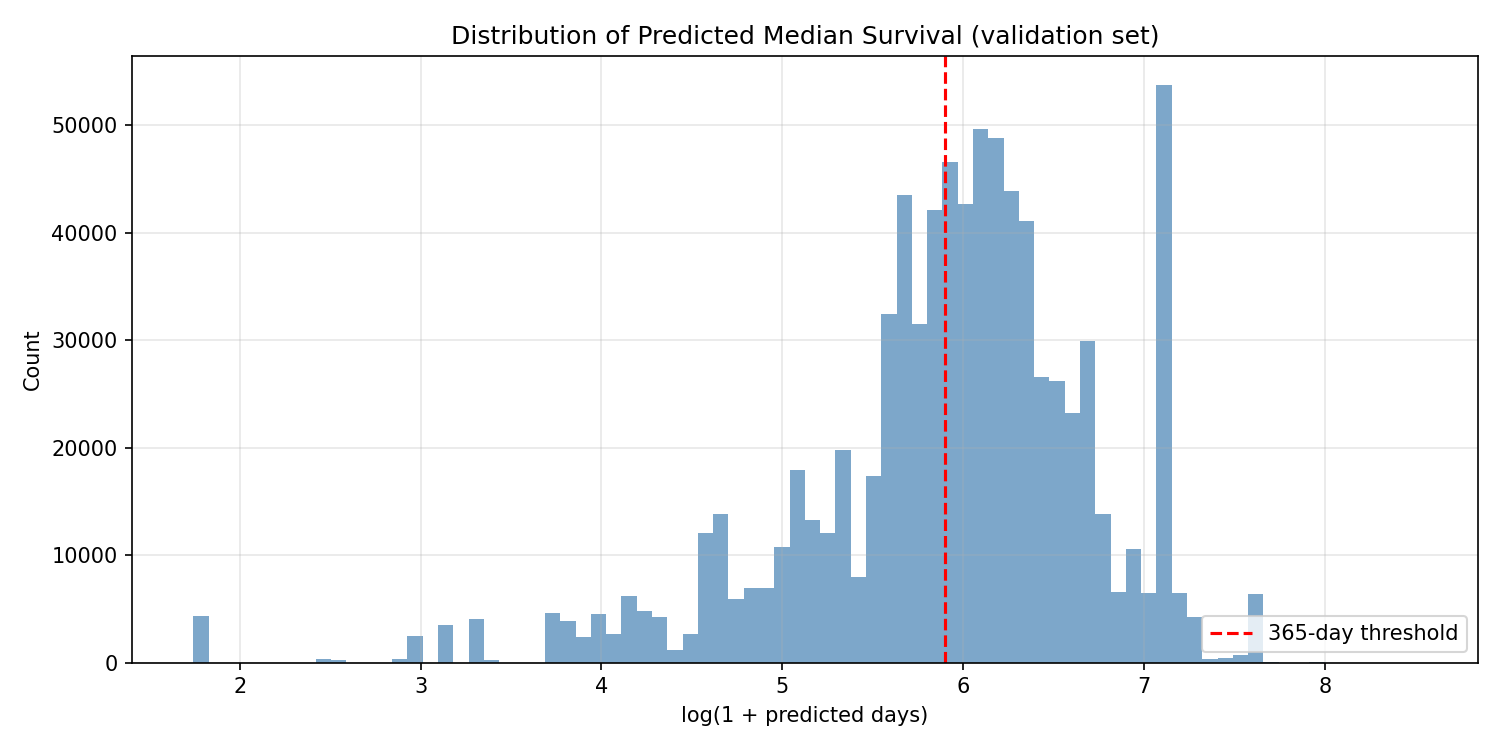
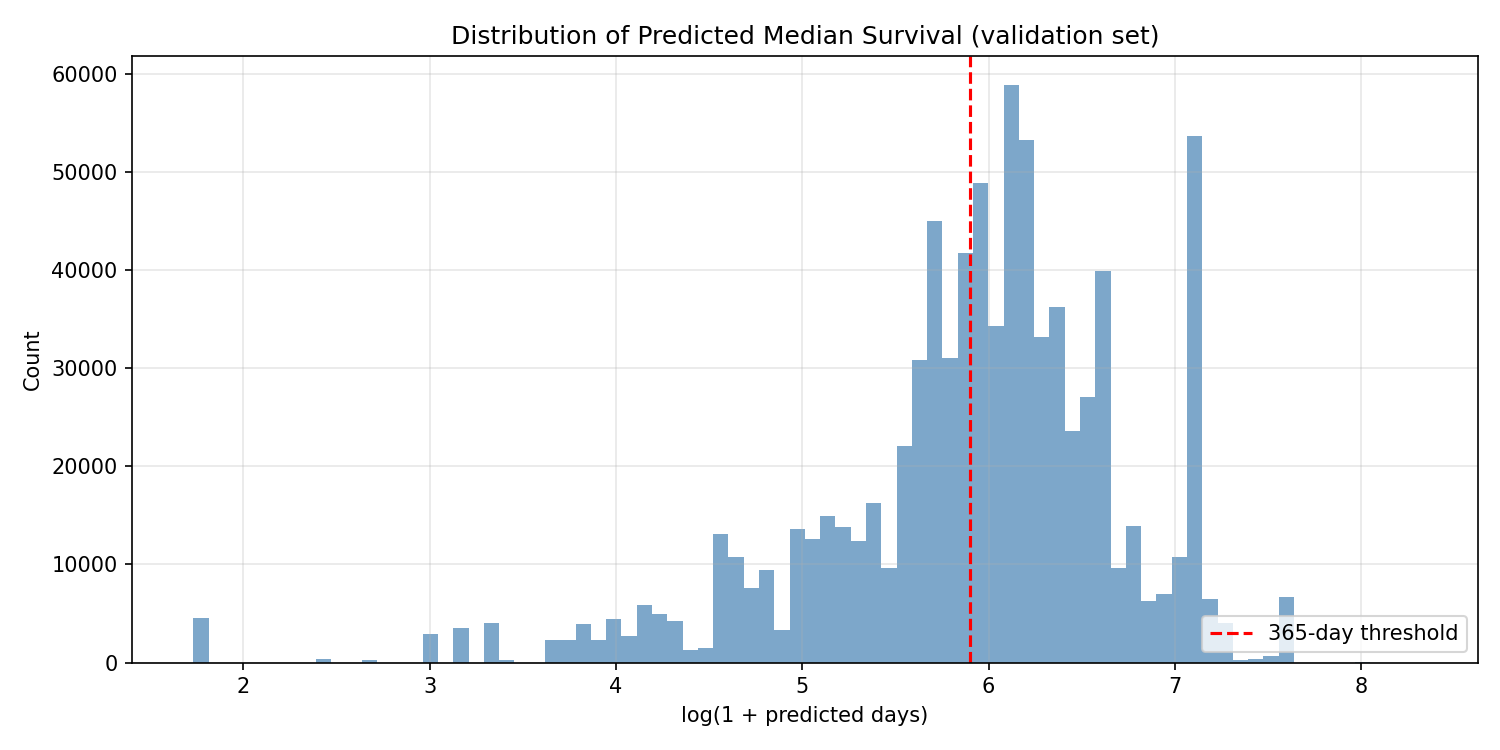
small update

diff --git a/processing/process_bulk.py b/processing/process_bulk.py
@@ -1,21 +1,40 @@
-"""This script processes raw dockets into a clean silver Parquet layer,
-generating native list arrays tracking every year and quarter a case was active
-between 2023 and 2026, completely filtering out any rows with chronological anomalies.
+"""This script processes raw dockets into a clean silver Parquet layer.
+
+If LIMITED_HARDWARE is True, it generates activity arrays clamped to the
[phone redacted] window and filters out cases that closed before 2023.
+
+If LIMITED_HARDWARE is False, it runs without any time-window constraints:
+all records passing basic integrity checks are included, and activity arrays
+span the full lifespan of each case.
 """
 
 from pathlib import Path
 import duckdb
+from datetime import datetime
 
-base_path = Path(__file__).parent 
-file_path = base_path / ".." / "data" / "dockets_observatory_2020_onwards.jsonl"
-output_parquet = base_path / ".." / "silver" / "database_dockets_latest.parquet"
+base_path = Path(__file__).parent.parent
+file_path = base_path /  "data" / "dockets_observatory_2020_onwards.jsonl"
+output_parquet = base_path / "silver" / "database_dockets.parquet"
 
 # Ensure output directory exists
 output_parquet.parent.mkdir(parents=True, exist_ok=True)
 
-print("Connecting to DuckDB and processing raw dataset...")
+print(f"Connecting to DuckDB and processing raw dataset ...")
 con = duckdb.connect()
 
+# ─── WINDOW PARAMETERS ───────────────────────────────────────────────────────
+WINDOW_END_DATE   = "2026-03-31" # ignore misfiled cases (there were some)
+# No window constraints — use the actual case dates in full
+current_year = datetime.now().year
+
+extra_where = ""  # No additional filtering beyond integrity checks
+
+start_yr_expr    = "date_part('year', d_filed)"
+end_yr_expr      = f"COALESCE(date_part('year', d_term), {current_year})"
+start_q_expr     = "d_filed"
+end_q_expr       = f"LEAST(CAST('{WINDOW_END_DATE}' AS DATE), COALESCE(d_term, CAST('{WINDOW_END_DATE}' AS DATE)))"
+
+# ─── MAIN QUERY ──────────────────────────────────────────────────────────────
 query = f"""
 COPY (
     WITH raw_data AS (
@@ -43,7 +62,12 @@ COPY (
             CASE 
                 WHEN jury_demand IN ('Plaintiff', 'Defendant') THEN TRUE ELSE FALSE 
             END AS jury_demand,
-
+            CAST(date_filed AS DATE) AS d_filed_raw,
+            CASE 
+                WHEN date_part('year', CAST(date_filed AS DATE)) > 2026 
+                THEN NULL  -- or handle explicitly
+                ELSE CAST(date_filed AS DATE)
+            END AS d_filed,
             ROW_NUMBER() OVER (
                 PARTITION BY court_id, docket_number 
                 ORDER BY TRY_CAST(date_modified AS TIMESTAMP) DESC, id DESC
@@ -63,22 +87,17 @@ COPY (
     bounded_cases AS (
         SELECT 
             *,
-            -- Establish window boundaries for year generation (2023-2026)
-            GREATEST(2023, date_part('year', d_filed)) AS start_yr,
-            LEAST(2026, COALESCE(date_part('year', d_term), 2026)) AS end_yr,
-            
-            -- Establish window boundaries for quarter generation
-            GREATEST(CAST('2023-01-01' AS DATE), d_filed) AS start_q_date,
-            LEAST(CAST('2026-03-31' AS DATE), COALESCE(d_term, CAST('2026-03-31' AS DATE))) AS end_q_date
+            {start_yr_expr} AS start_yr,
+            {end_yr_expr}   AS end_yr,
+            {start_q_expr}  AS start_q_date,
+            {end_q_expr}    AS end_q_date
         FROM raw_data
         WHERE row_num = 1
           AND id IS NOT NULL AND d_filed IS NOT NULL AND date_modified IS NOT NULL
           AND court_id IS NOT NULL AND docket_number IS NOT NULL AND docket_number != ''
-          AND (d_term IS NULL OR date_part('year', d_term) IN (2023, 2024, 2025, 2026))
-          
-          -- 🛠️ FIX: Drop all chronological anomalies entirely
           AND (d_term IS NULL OR d_filed <= d_term)
-          AND (GREATEST(2023, date_part('year', d_filed)) <= LEAST(2026, COALESCE(date_part('year', d_term), 2026)))
+          AND date_part('year', d_filed) <= 2026
+          {extra_where}
     )
     SELECT 
         id, court_id, case_name,
@@ -90,7 +109,6 @@ COPY (
         'q' || date_part('quarter', d_term) AS quarter_terminated,
         'q' || date_part('quarter', d_filed) AS quarter_filed,
         
-        -- Clean structural array generations without needing fallback switches
         (
             SELECT list(yr) 
             FROM generate_series(CAST(start_yr AS INT), CAST(end_yr AS INT)) AS t(yr)
@@ -126,3 +144,5 @@ try:
 
 except Exception as e:
     print(f"An error occurred during execution: {e}")
+
+

diff --git a/processing/kafkaToSilver.py b/processing/kafkaToSilver.py
@@ -3,7 +3,7 @@ This script accesses with Kafka the bronze data, then cleans them,
 processes them, and stores them in a DuckLake table: an open lakehouse
 format made of Parquet data files plus a transactional DuckDB metadata
 catalog (snapshots, schema, ACID commits).
-It automatically shuts down if no new messages are received for one minute.
+It automatically shuts down if the users presses Ctrl + C.
 """
 
 from quixstreams import Application
@@ -21,8 +21,7 @@ from pathlib import Path
 broker = os.getenv("KAFKA_BROKER", "localhost:9092")
 base_path = Path(__file__).parent
 
-# Timeout configuration (in seconds)
-IDLE_TIMEOUT_SECONDS = 60
+
 
 # --- DuckLake storage configuration ---
 # CATALOG_PATH is the DuckDB file holding all DuckLake metadata (schema,
@@ -112,7 +111,7 @@ def upsert_batch(con, df_clean):
     insert_cols = ", ".join(target_cols)
     insert_vals = ", ".join(f"src.{c}" for c in target_cols)
 
-    # FIXED: Explicitly maps and safely casts every single column incoming from PyArrow
+    # Explicitly maps and safely casts every single column incoming from PyArrow
     con.execute(f"""
         MERGE INTO {TABLE_NAME} AS tgt
         USING (
@@ -159,7 +158,6 @@ def main():
         consumer.subscribe(["bronze"])
         print("Fetching bronze data ...")
 
-        # Initialize the idle timer right before entering the consumption loop
         last_message_time = time.time()
 
         while True:

diff --git a/ingestion/kafkaProducer.py b/ingestion/kafkaProducer.py
@@ -29,7 +29,7 @@ from ingestion.config import MAX_RECORDS
 # Tracking paths
 log_file = PROJECT_ROOT / "logs" / "ingestion_history.csv"
 
-# the API will look for dockets modified before this given number of hours 
+# as fallback, the API will look for dockets modified before this given number of hours 
 HOURS = 8
 
 # If True, obtain_date() will resume from the timestamp of the last
@@ -110,7 +110,7 @@ def main():
 
     print("Verifying Kafka topic availability...")
     
-    # Define your topic parameters using QuixStreams
+    # Define topic parameters using QuixStreams
     bronze_topic = app.topic(name="bronze", value_serializer="json")
     
     # Instantiate the administrator directly
@@ -154,7 +154,7 @@ def main():
                 params=params,
                 stats=stats
             ):
-                record_id = row.get("id")  # <-- adatta al nome del campo ID della tua API
+                record_id = row.get("id")  
     
                 current_page_count = stats.get("pages_fetched", 1)
                 if record_id and record_id in seen_ids:

diff --git a/ingestion/open_bulk.py b/ingestion/open_bulk.py
@@ -18,7 +18,7 @@ print(f"Connecting to DuckDB and filtering records from: {input_file.name}...")
 
 con = duckdb.connect()
 
-# Vectorized pipeline with an optimized 10-year lookback boundary for active cases
+# Vectorized pipeline with an optimized lookback boundary for active cases
 query = f"""
 COPY (
     SELECT *

diff --git a/processing/database_migration.py b/processing/database_migration.py
@@ -7,7 +7,7 @@ from pathlib import Path
 base_path    = Path(__file__).parent
 CATALOG_PATH = (base_path / ".." / "silver_catalog.ducklake").resolve()
 DATA_PATH    = (base_path / ".." / "silver" / "data").resolve()
-EXISTING_PARQUET = (base_path / ".." / "silver" / "database_dockets_latest.parquet").resolve()
+EXISTING_PARQUET = (base_path / ".." / "silver" / "database_dockets.parquet").resolve()
 
 # print(f"Catalog : {CATALOG_PATH} (exists: {CATALOG_PATH.exists()})")
 # print(f"Data    : {DATA_PATH} (exists: {DATA_PATH.exists()})")

diff --git a/README.md b/README.md
@@ -30,7 +30,7 @@ Requirements:
 
 To test the program to its full potential, we recommend running in order the following programs:
 
-- open "https://drive.google.com/drive/folders/1-pogtrR4fofkjftPa86cw_hEXPVQ0G4G?usp=sharing", download "database_dockets_latest.zip", unzip it and store it in the folder "silver/": it represents our database,
+- open "https://drive.google.com/drive/folders/1-pogtrR4fofkjftPa86cw_hEXPVQ0G4G?usp=sharing", download "database_dockets.zip", unzip it and store it in the folder "silver/": it represents our database,
 
 - install the packages in 'requirements.txt' (pip install -r requirements.txt),
 
@@ -223,7 +223,7 @@ project/
 ├── silver/
 │   ├── courts/
 │   |    └── courts_classified.parquet
-│   └── database_dockets_latest.zip
+│   └── database_dockets.zip
 │
 ├── .dockerignore
 ├── .env